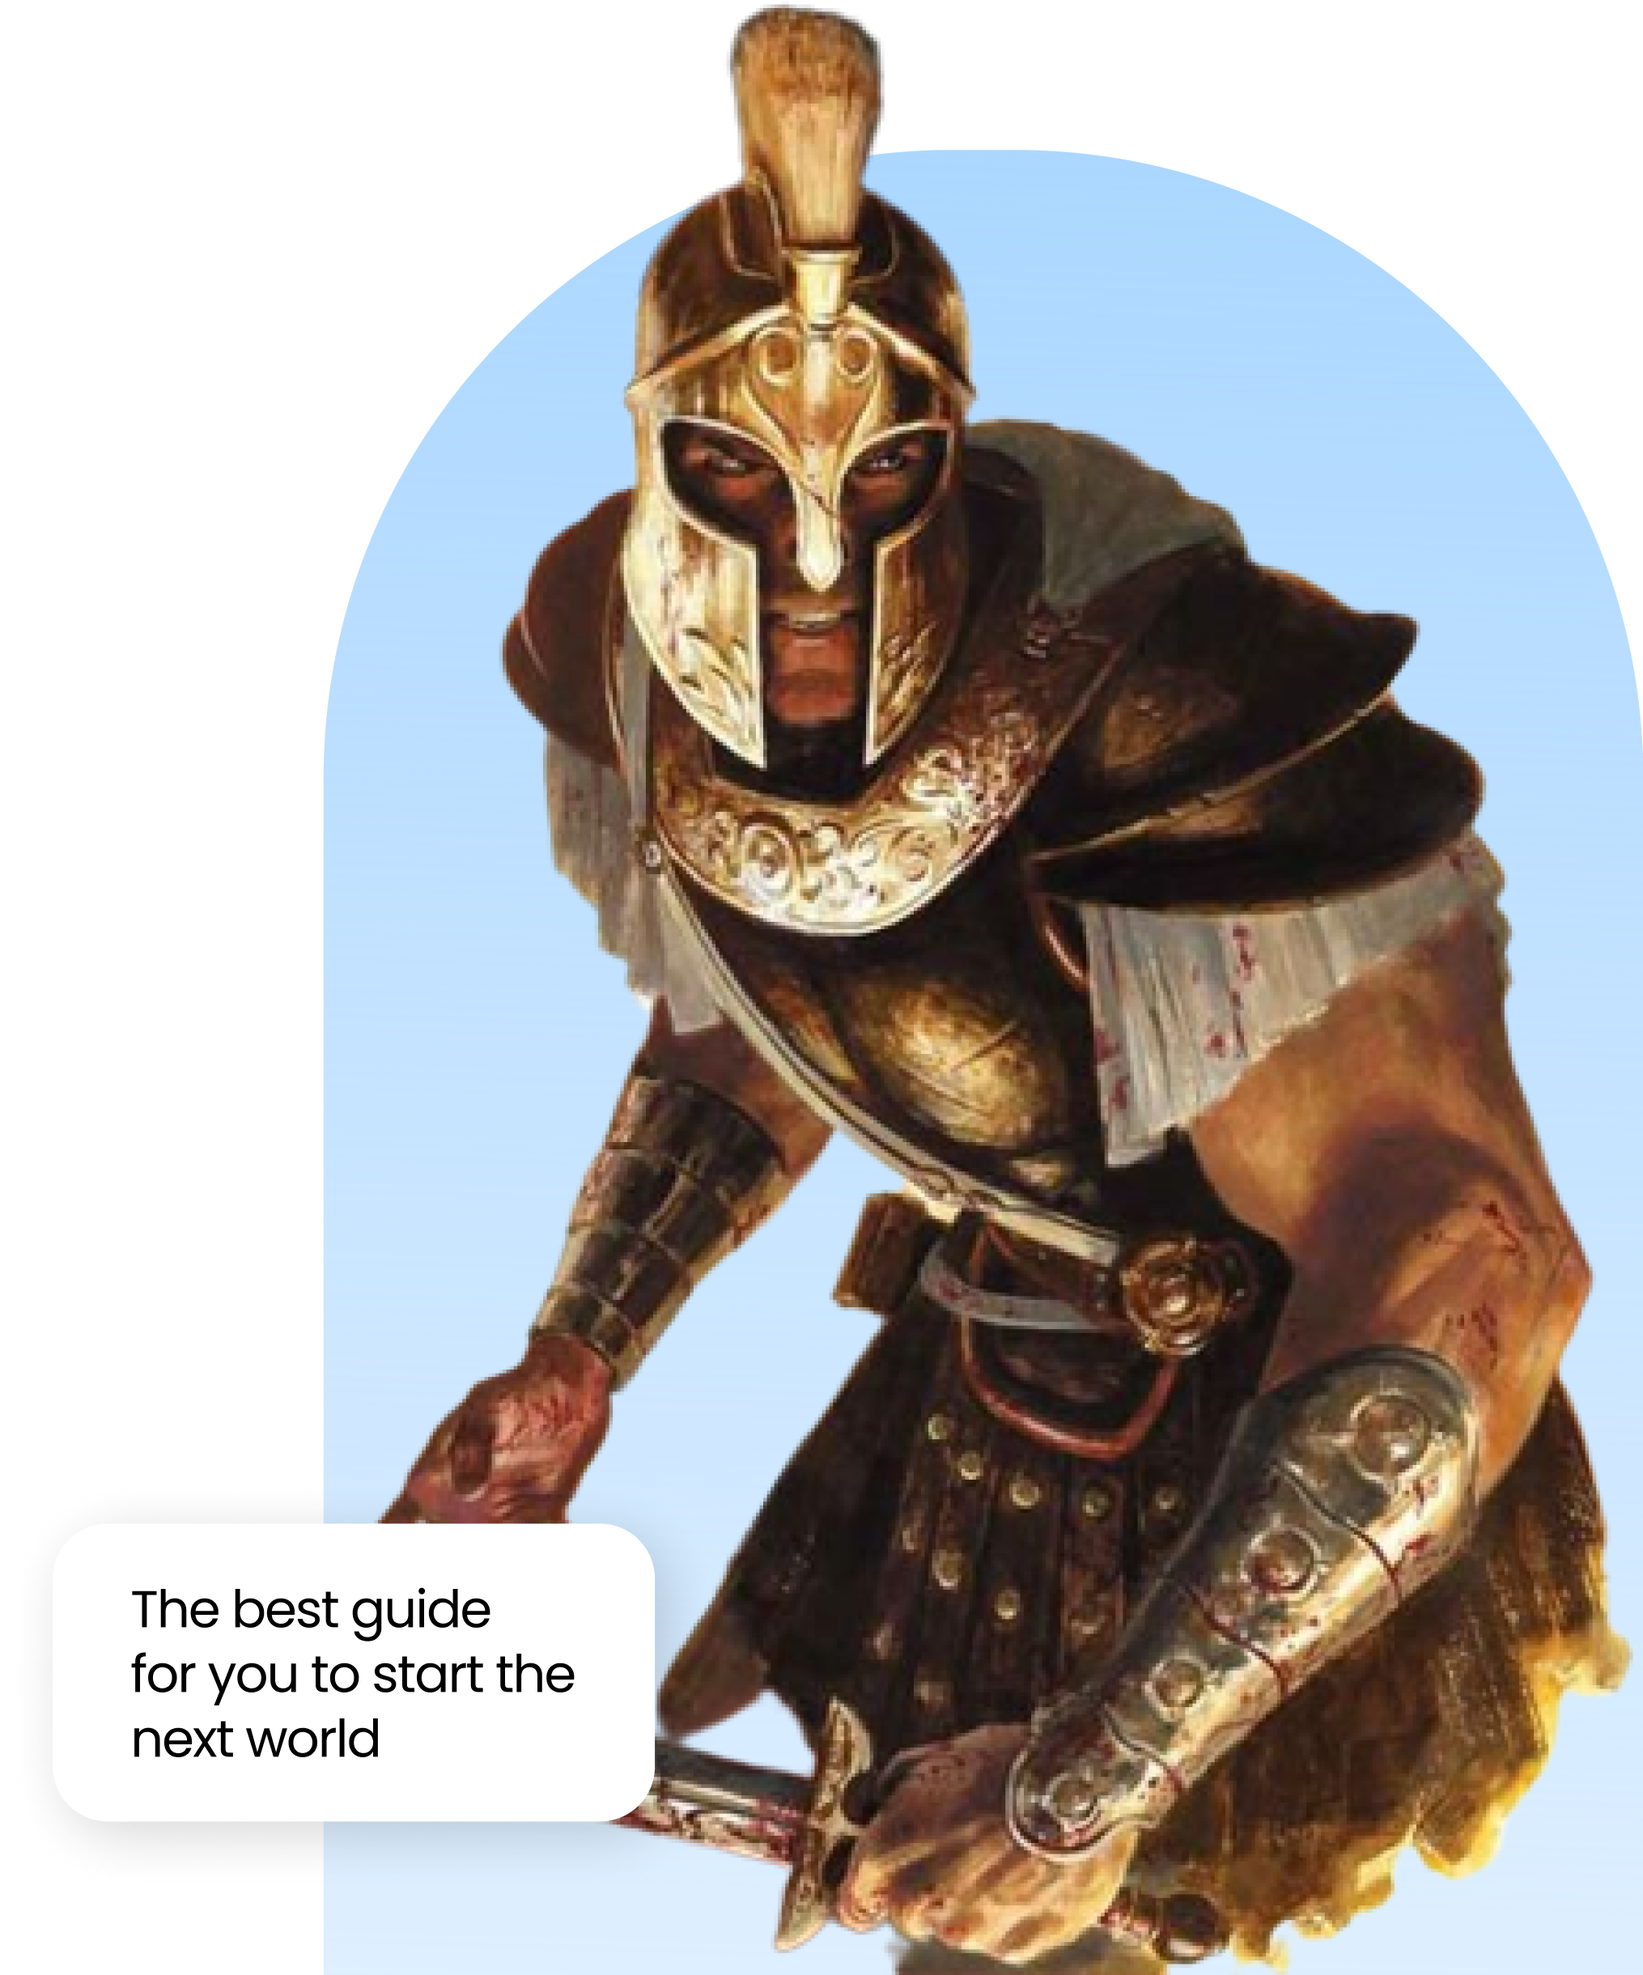
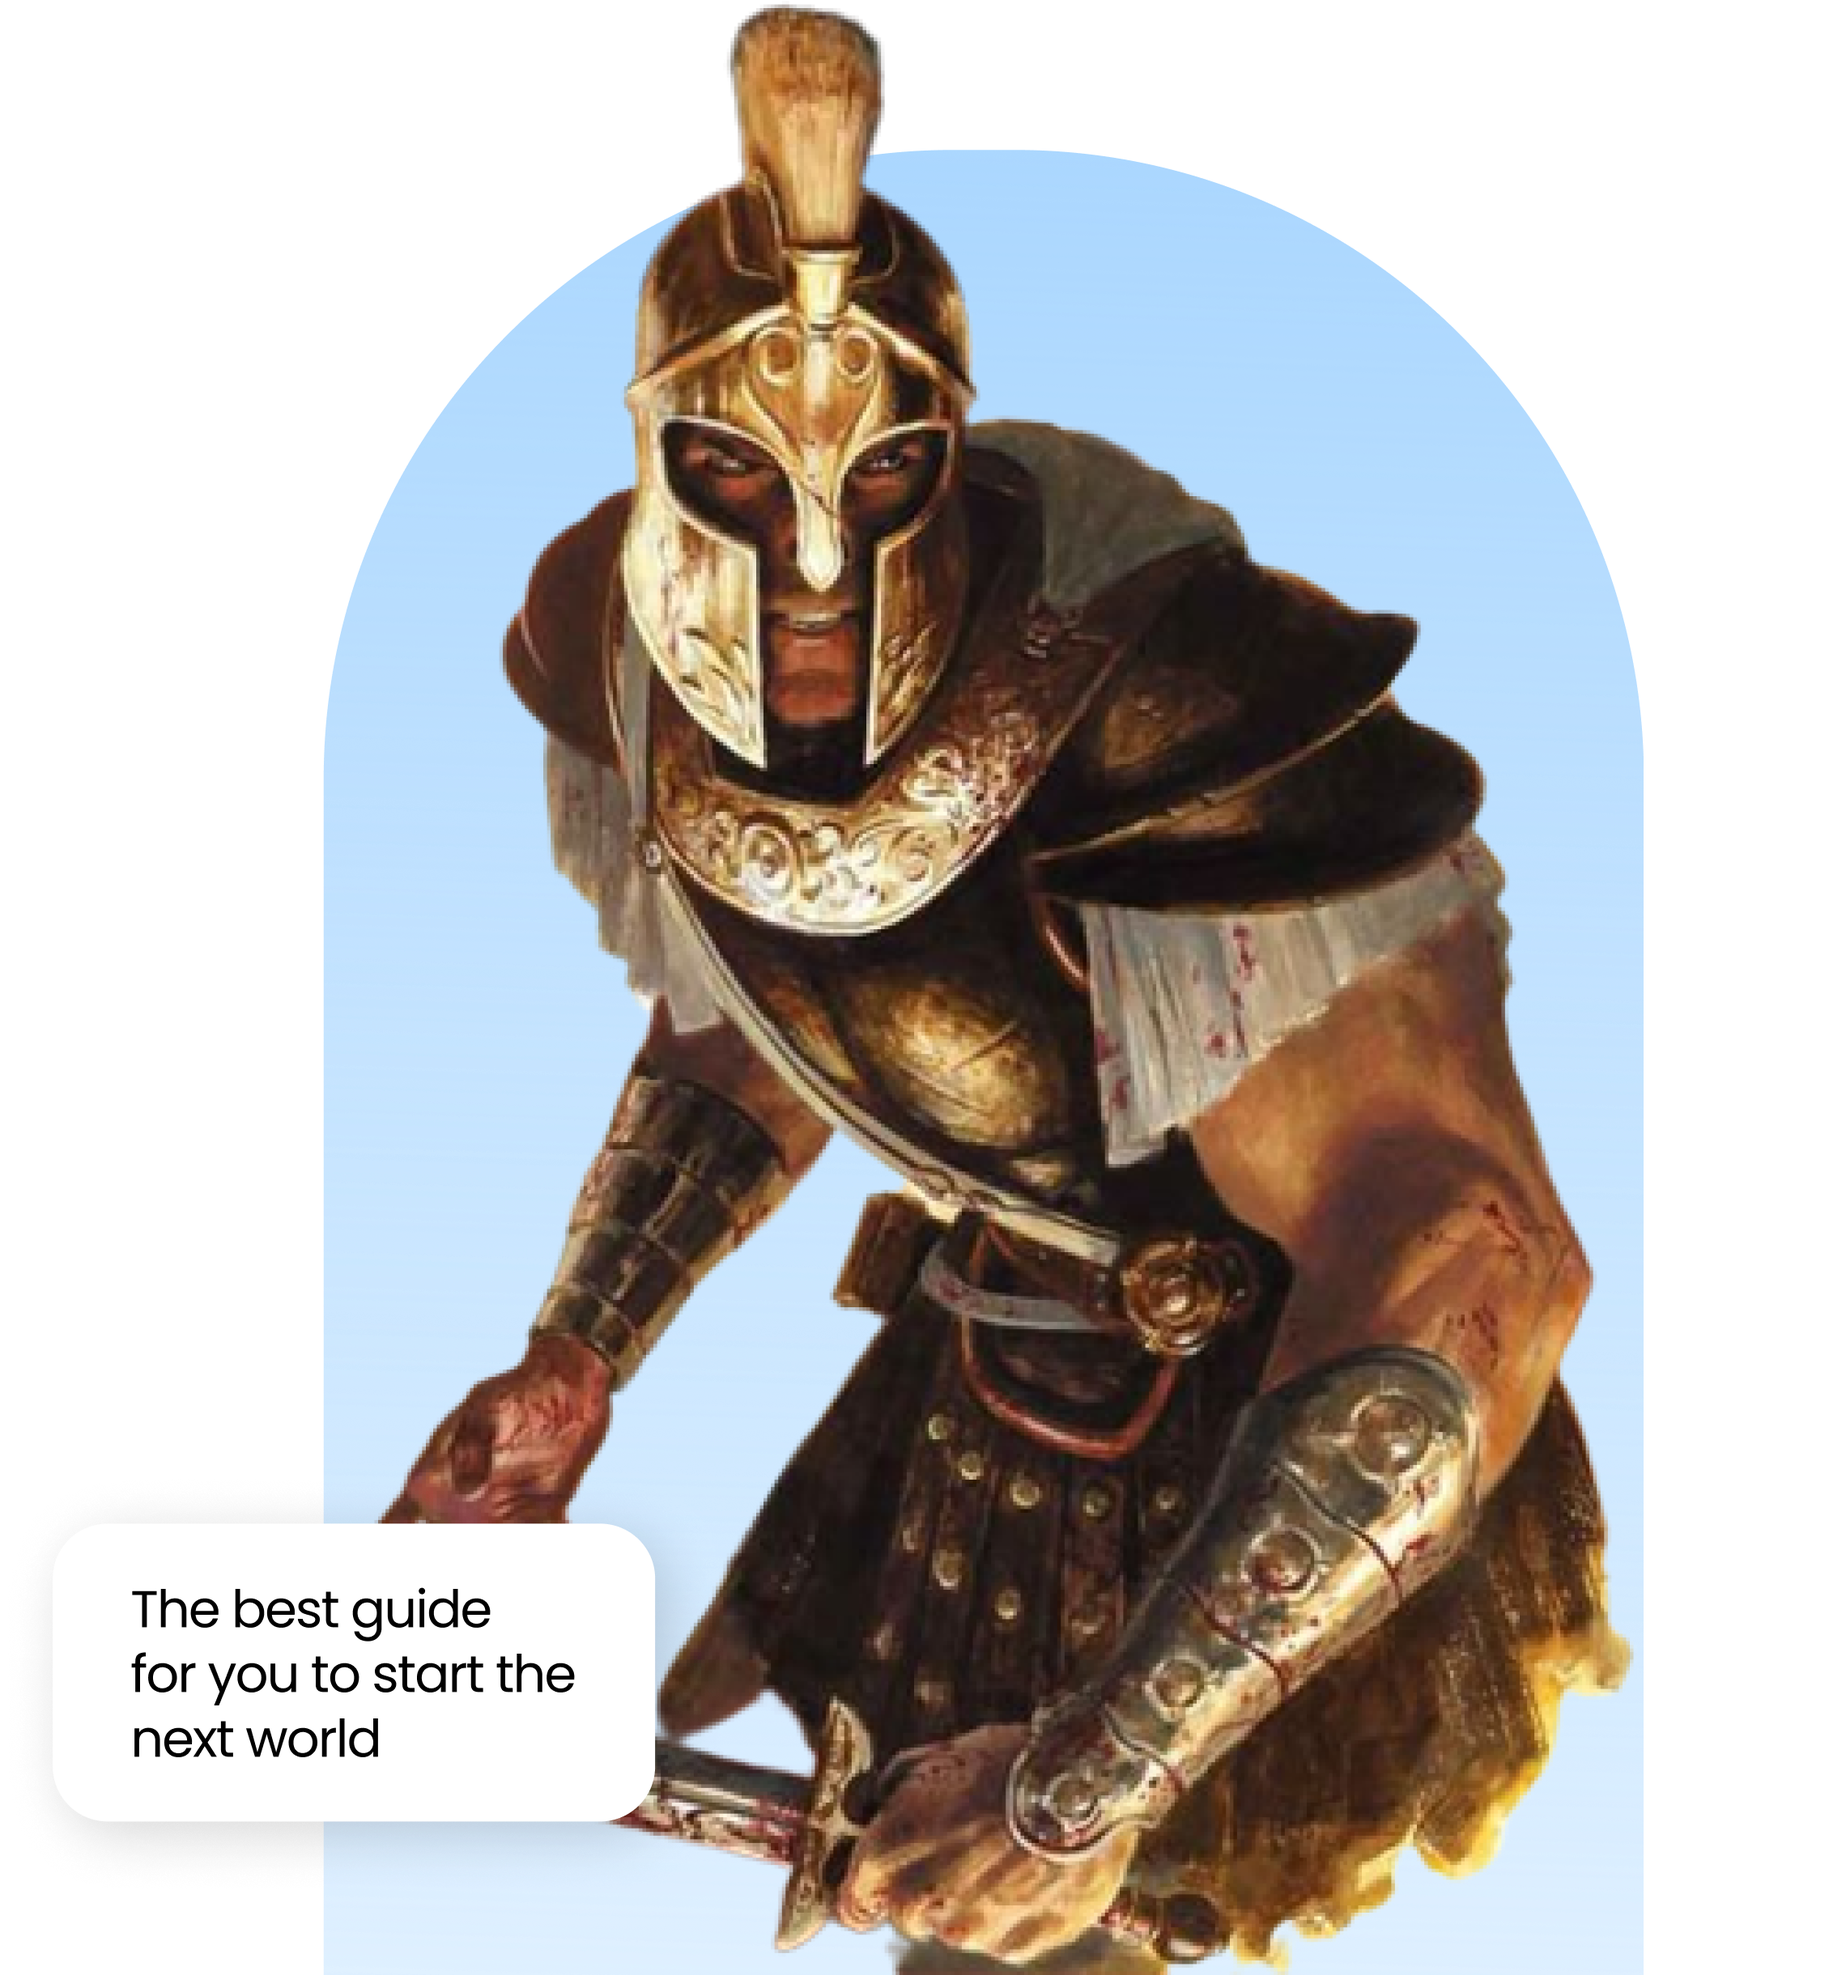
Fixed responsive issues in landing

diff --git a/src/Pages/Landing/Landing.module.css b/src/Pages/Landing/Landing.module.css
@@ -106,6 +106,8 @@ margin-bottom: 10px;
   line-height: 1.5rem;
   letter-spacing: 0em;
   text-align: center;
+  max-width: 85%;
+margin: auto;
 }
 
 .cw_text {
@@ -200,6 +202,8 @@ margin-bottom: 10px;
     margin-top: 1rem;
     line-height: 2rem;
     text-align: left;
+    max-width: 100%;
+margin: initial;
   }
 
   .get_started {
@@ -211,6 +215,7 @@ margin-bottom: 10px;
     max-width: 1260px;
     display: block;
     margin: auto;
+    
   }
 
   .fvimage {

diff --git a/src/Pages/Landing/Landing.jsx b/src/Pages/Landing/Landing.jsx
@@ -8,7 +8,7 @@ const Landing = () => {
   return (
     <>
       <div className={styles.main_container}>
-        <div className={styles.first_view_container}>
+        <div className={styles.first_view_container} style={{height: "100vh"}}>
           <nav>
             <Link to="/">
               <img
